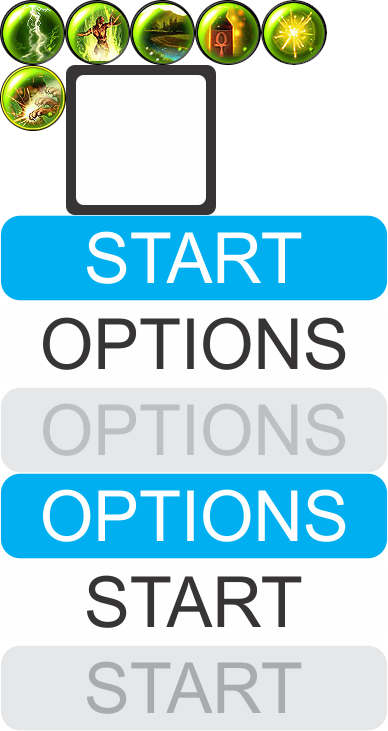
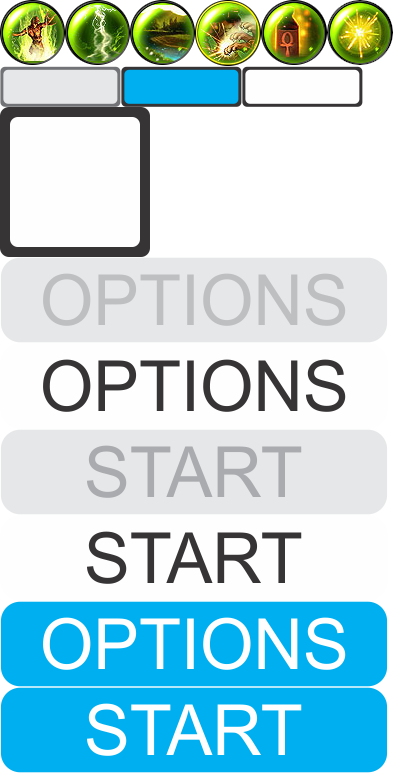
bkp2019-07-08

diff --git a/src/MainScene.js b/src/MainScene.js
@@ -1,49 +1,37 @@
-var MainScene = cc.Scene.extend({
+projectSUS.MainScene = cc.Scene.extend({
     onEnter:function () {
         this._super();
-        var layer = new MainLayer();
+        var layer = new projectSUS.MainLayer();
         this.addChild(layer);
         layer.init();
     }
 });
-var type_num = 0;
 
-
-
-gamename = {};
-
-var MainLayer = cc.Layer.extend({
+projectSUS.MainLayer = cc.Layer.extend({
     init: function () {
-        this._super();
-        gamename.input = new myGameInput();
+        this.bg = pd.createSprite(res.main_bg, cc.p(320, 180), this);
 
-        var size = cc.director.getWinSize();
+        this.btn  = pd.createSprite("btn120x40_n.png", cc.p(30,60), this);
 
-        this.bg = gb.createSprite(res.main_bg, cc.p(size.width/2, size.height/2), this);
-        this.bg.setScale(1.5);
+        this.to_spell_book_btn = new pd.Button();
+        this.to_spell_book_btn.setSprites("btn120x40_n.png", "btn120x40_p.png", "btn120x40_d.png");
+        this.to_spell_book_btn.setLabel("Spell Book");
+        this.to_spell_book_btn.setPosition(70, 330);
+        this.addChild(this.to_spell_book_btn);
 
-        this.btn_start = gb.createButtonFromPlist("btn_start_", this, 10);
-        this.btn_start.setPosition(size.width/2, size.height/1.5);
-        this.btn_start.addClickEventListener(this.startGame, this);
 
-        this.btn_options = gb.createButtonFromPlist("btn_opt_", this, 10);
-        this.btn_options.setPosition(size.width/2, size.height/4);
-        this.btn_options.addClickEventListener(this.goOptions, ["1", "2"]);
-
-        this.test = gb.createButtonFromLocal(res.close_btn, res.close_btn_p, "", this, 0);
-        this.test.setPosition(100,100);
-    },
-
-    startGame: function () {
-        if (type_num <= 15) {
-            gb.changeScene(new BattleScene(), 1, type_num);
+        projectSUS.input.addEventListener("onMouseDown", "onMouseDown", this.to_spell_book_btn, 1);
+        this.to_spell_book_btn.onMouseDown = function (e) {
+            var box = this.getBoundingBox();
+            cc.log(box);
+            // if (cc.rectContainsPoint(cc.rect(0,0,)this.convertToNodeSpace(e.getLocation())))
+            // pd.changeScene(new projectSUS.MainScene(), 1, 0);
         }
-    },
 
-    goOptions: function (alpha, beta, charlie) {
-        cc.log("Ir para opções");
-        cc.log(alpha);
-        cc.log(beta);
-        cc.log(charlie);
+
     }
 });
+
+
+///todo  Animated button, Static button e button padarao
+

diff --git a/src/Padroes/Snippets.js b/src/Padroes/Snippets.js
@@ -1,15 +1,15 @@
-var pd = {};
-var gb = {
-    addPlistAndPng: function () {
+pd = {};
+
+pd.addPlistAndPng = function () {
         for (var plist_key in res) {
             if (plist_key.match("_plist")) {
                 var png_key = plist_key.replace("_plist", "_png");
                 cc.spriteFrameCache.addSpriteFrames(res[plist_key], res[png_key]);
             }
         }
-    },
+    };
 
-    createSprite: function (spriteName, position, parentNode, localZOrder) {
+    pd.createSprite = function (spriteName, position, parentNode, localZOrder) {
         ////para plist
         //// return cc.spriteFrameCache.getSpriteFrame(spriteFrameName);
         const name = cc.spriteFrameCache.getSpriteFrame(spriteName) || spriteName;
@@ -19,9 +19,9 @@ var gb = {
         if (parentNode)
             parentNode.addChild(obj, localZOrder || 0);
         return obj;
-    },
+    };
 
-    createButtonFromPlist: function (spriteName, parent, zOrder) {
+    pd.createButtonFromPlist = function (spriteName, parent, zOrder) {
         const spriteNormal  = spriteName+"n.png";
         const spritePressed = spriteName+"p.png";
         const spriteDisable = spriteName+"d.png";
@@ -30,17 +30,17 @@ var gb = {
         if (parent)
             parent.addChild(button, (zOrder || 0));
         return button;
-    },
+    };
 
-    createButtonFromLocal: function (spriteNormal, spritePressed, spriteDisable, parent, zOrder) {
+    pd.createButtonFromLocal  = function (spriteNormal, spritePressed, spriteDisable, parent, zOrder) {
         const button = new ccui.Button();
         button.loadTextures(spriteNormal, spritePressed, spriteDisable, ccui.Widget.LOCAL_TEXTURE);
         if (parent)
             parent.addChild(button, (zOrder || 0));
         return button;
-    },
+    };
 
-    changeScene: function (scene, delay, type) {
+    pd.changeScene = function (scene, delay, type) {
         var transition = [];
         transition.push(cc.TransitionCrossFade);
         transition.push(cc.TransitionFade);
@@ -60,10 +60,7 @@ var gb = {
         transition.push(cc.TransitionSlideInR);
 
         cc.director.runScene(new transition[type](delay, scene));
-    },
-
-
-};
+    };
 /**
  * Embaralha um array.
  * @type {Function}

diff --git a/src/StartScene.js b/src/StartScene.js
@@ -1,0 +1,47 @@
+projectSUS = {};
+projectSUS.input = new pd.gameInput();
+
+projectSUS.StartScene = cc.Scene.extend({
+    onEnter:function () {
+        this._super();
+        var layer = new projectSUS.StartLayer();
+        this.addChild(layer);
+        layer.init();
+    }
+});
+var type_num = 0;
+
+projectSUS.StartLayer = cc.Layer.extend({
+    init: function () {
+        this._super();
+
+        var size = cc.director.getWinSize();
+
+        this.bg = pd.createSprite(res.main_bg, cc.p(size.width/2, size.height/2), this);
+        this.bg.setScale(1.5);
+
+        this.btn_start = pd.createButtonFromPlist("btn_start_", this, 10);
+        this.btn_start.setPosition(size.width/2, size.height/1.5);
+        this.btn_start.addClickEventListener(this.startGame, this);
+
+        this.btn_options = pd.createButtonFromPlist("btn_opt_", this, 10);
+        this.btn_options.setPosition(size.width/2, size.height/4);
+        this.btn_options.addClickEventListener(this.goOptions, ["1", "2"]);
+
+        this.test = pd.createButtonFromLocal(res.close_btn, res.close_btn_p, "", this, 0);
+        this.test.setPosition(100,100);
+    },
+
+    startGame: function () {
+        if (type_num <= 15) {
+            pd.changeScene(new projectSUS.MainScene(), 1, type_num);
+        }
+    },
+
+    goOptions: function (alpha, beta, charlie) {
+        cc.log("Ir para opções");
+        cc.log(alpha);
+        cc.log(beta);
+        cc.log(charlie);
+    }
+});

diff --git a/main.js b/main.js
@@ -14,37 +14,15 @@ cc.game.onStart = function(){
     // cc.view.setDesignResolutionSize(designSize.width, designSize.height, cc.ResolutionPolicy.SHOW_ALL);
 
     cc.view.adjustViewPort(true);
-    cc.view.setDesignResolutionSize(1280, 720, cc.ResolutionPolicy.SHOW_ALL);
+    cc.view.setDesignResolutionSize(640, 360, cc.ResolutionPolicy.SHOW_ALL);
     cc.view.resizeWithBrowserSize(true);
 
     //load resources
 
     cc.LoaderScene.preload(game_resources, function () {
-        cc.director.runScene(new MainScene());
-        gb.addPlistAndPng();
-        // cc.director.runScene(new Stage1Scene());
-        // cc.spriteFrameCache.addSpriteFrames(res.buttons_plist, res.buttons_png); // sprite cache
+        cc.director.runScene(new projectSUS.StartScene());
+        pd.addPlistAndPng();
     }, this);
 
 };
 cc.game.run();
-
-
-
-
-
-
-// cc.game.onStart = function() {
-//     cc.view.adjustViewPort(true);
-//     cc.view.setDesignResolutionSize(1024, 768, cc.ResolutionPolicy.SHOW_ALL);
-//     cc.view.resizeWithBrowserSize(true);
-//
-//     cc.loader.loadJson("paths.json", function(err, data) {
-//         const paths = cc.sys.isMobile ? data.mobile : data.desktop;
-//         cc.loader.loadJs(paths.padroesPath, ["src/Boot.js"], function() {
-//             pd.boot(paths);
-//         });
-//     });
-// };
-//
-// cc.game.run();

diff --git a/src/Padroes/Button.js b/src/Padroes/Button.js
@@ -1,0 +1,57 @@
+pd.Button = cc.Node.extend ({
+    /**
+     normal sprite
+     pressed sprite
+     disabled sprite
+     **/
+    ctor: function () {
+        this._super();
+
+        this.is_enable = true;
+        this.sprite = null;
+        this.label = null;
+        this.text_label = "";
+        this.sprite_status = [null, null, null];
+    },
+
+    onMouseDown: function (e) {
+
+    },
+
+    onMouseUp: function (e) {
+
+    },
+
+    onMouseMove: function (e) {
+
+    },
+
+    onMouseScroll: function (e) {
+
+    },
+
+    setSprites: function (sprite_n, sprite_p, sprite_d) {
+        this.sprite_status[0] = sprite_n;
+        this.sprite_status[1] = sprite_p;
+        this.sprite_status[2] = sprite_d;
+
+        this.sprite = pd.createSprite(sprite_n, cc.p(0,0), this);
+    },
+
+    setLabel: function (label) {
+        this.text_label = label;
+        this.label = new cc.LabelTTF(this.text_label, "Arial", 10, this.sprite, cc.TEXT_ALIGNMENT_CENTER, cc.TEXT_ALIGNMENT_CENTER);
+        this.label.setFontFillColor(cc.color(0,0,0,255));
+        this.label.setPosition(this.sprite.width/2, this.sprite.height/2);
+        this.sprite.addChild(this.label);
+    },
+
+    setEnable: function () {
+        this.is_enable = true;
+    },
+
+    setDisable: function () {
+        this.is_enable = false;
+    }
+
+});

diff --git a/src/BattleStage.js b/src/BattleStage.js
@@ -12,14 +12,13 @@ var BattleLayer = cc.Layer.extend({
         var size = cc.director.getWinSize();
         var middle = cc.p(size.width/2, size.height/2);
 
-        gb.createSprite(res.bg, middle, this, -1);
+        pd.createSprite(res.bg, middle, this, -1);
 
-        this.skill_1 = gb.createSprite("cura1.png", cc.p(100,100), this, 1);
-        this.skill_2 = gb.createSprite("cura2.png", cc.p(200,100), this, 1);
-        this.skill_3 = gb.createSprite("cura3.png", cc.p(300,100), this, 1);
+        this.skill_1 = pd.createSprite("cura1.png", cc.p(100,100), this, 1);
+        this.skill_2 = pd.createSprite("cura2.png", cc.p(200,100), this, 1);
+        this.skill_3 = pd.createSprite("cura3.png", cc.p(300,100), this, 1);
 
 
-        gb.addMouseEvent(this.skill_1);
         // gb.addMouseEvent(this.skill_2);
         // gb.addMouseEvent(this.skill_3);
 
@@ -27,11 +26,8 @@ var BattleLayer = cc.Layer.extend({
             cc.log("funciona, está vivo", e);
         };
 
-        cc.log(gamename.input.addEventListener("onMouseDown", "mouse", this.skill_2, 1));
+        cc.log(projectSUS.input.addEventListener("onMouseDown", "mouse", this.skill_2, 1));
 
         // gameInput.addEventListener("onMouseDown", "mouse", this.skill_2, 1);
-
-
-
     },
 });

diff --git a/src/Stage1.js b/src/Stage1.js
@@ -12,13 +12,13 @@ var Stage1Layer = cc.Layer.extend({
         var size = cc.director.getWinSize();
         var middle = cc.p(size.width/2, size.height/2);
 
-        gb.createSprite(res.bg, middle, this, -1);
+        pd.createSprite(res.bg, middle, this, -1);
 
         this.runAction(cc.sequence(
             cc.delayTime(3),
             cc.callFunc(function () {
                 type_num ++;
-                gb.changeScene(new MainScene(), 1, 0);
+                pd.changeScene(new projectSUS.MainScene(), 1, 0);
             }, this)
         ))
     },

diff --git a/index.html b/index.html
@@ -18,7 +18,7 @@
     </style>
 </head>
 <body>
-<canvas id="gameCanvas" width="1280" height="720"></canvas>
+<canvas id="gameCanvas" width="640" height="360"></canvas>
 <script src="cocos2d-html5/CCBoot.js"></script>
 <script cocos src="main.js"></script>
 </body>

diff --git a/src/Padroes/GameInput.js b/src/Padroes/GameInput.js
@@ -1,4 +1,4 @@
-var myGameInput = cc.Class.extend({
+pd.gameInput = cc.Class.extend({
     ctor: function () {
         this.mouseDownListeners =[];
         this.mouseUpListeners =[];
